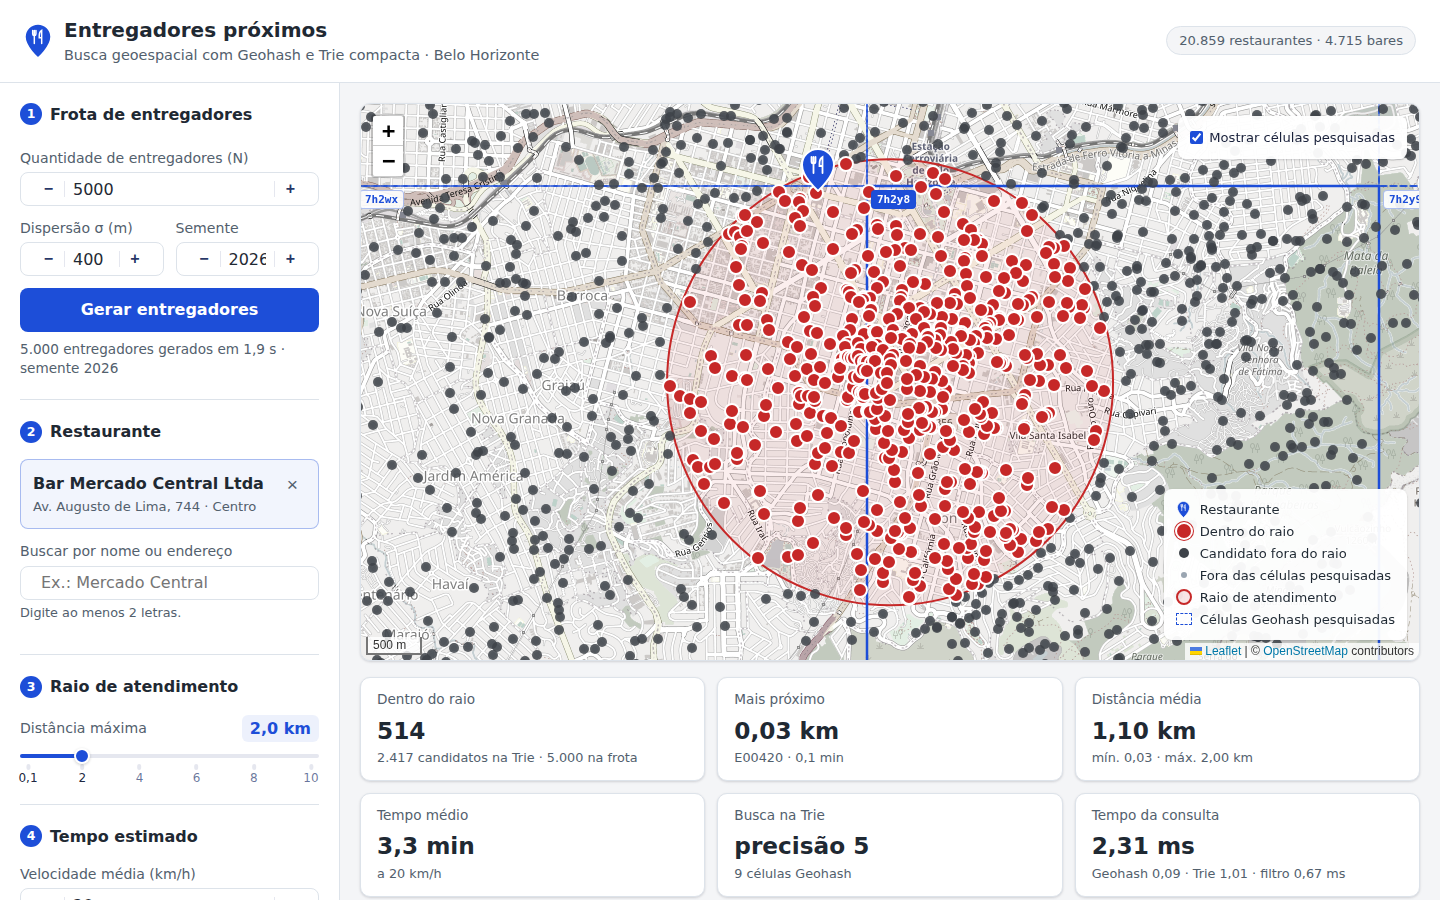
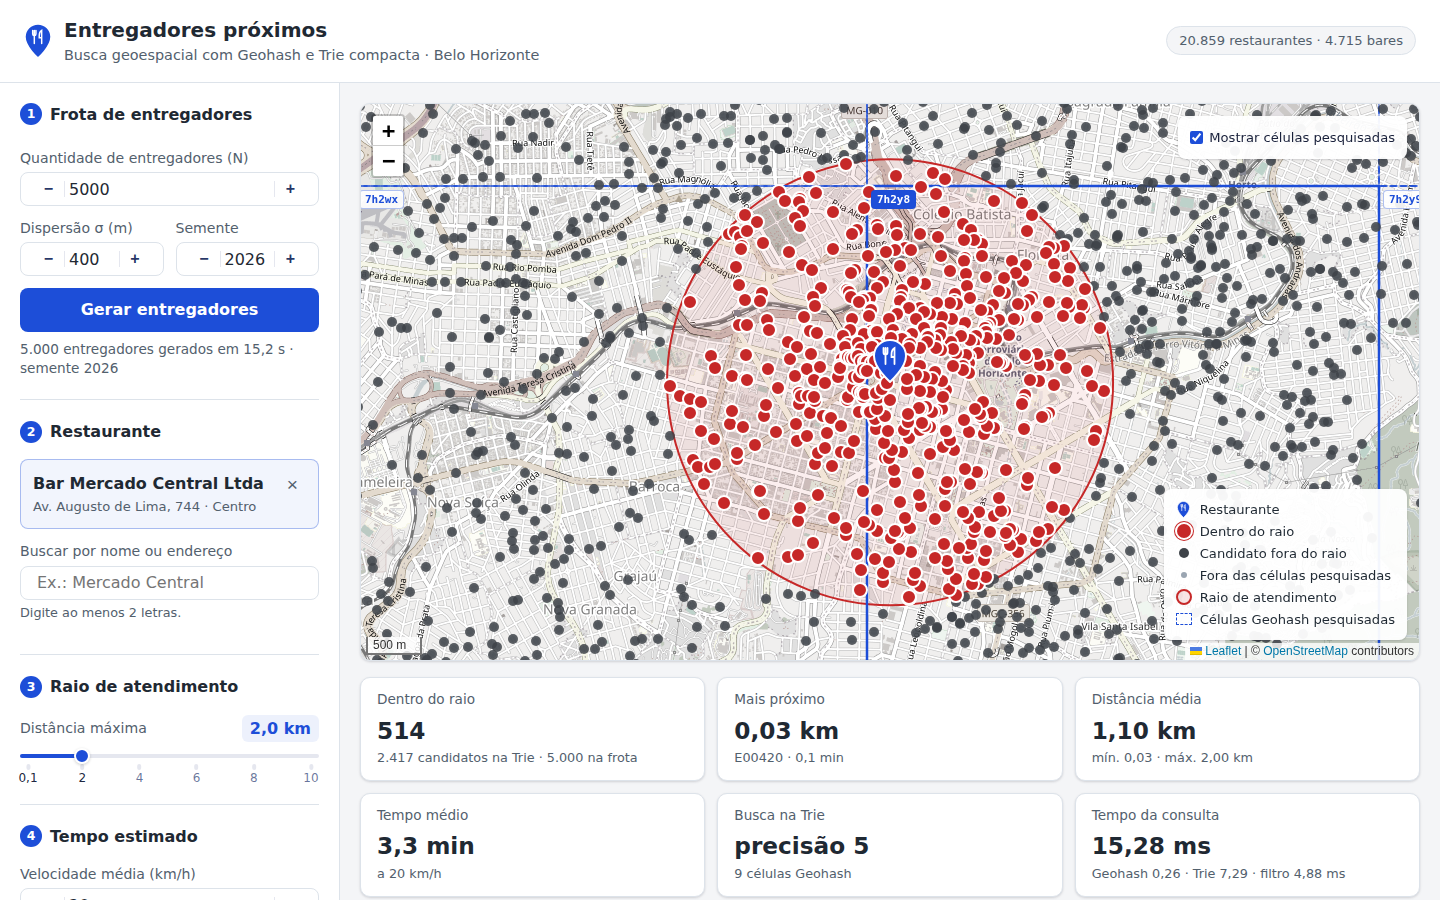
corrige posição do marcador do restaurante e revisa o relatório

diff --git a/app/assets/style.css b/app/assets/style.css
@@ -202,6 +202,11 @@ fieldset.panel-section {
   border-color: var(--danger);
 }
 
+.input .dash-input-element {
+  padding-left: var(--s1);
+  padding-right: var(--s1);
+}
+
 .field-hint {
   margin: var(--s1) 0 0;
   font-size: 0.8rem;

diff --git a/tests/test_road_network.py b/tests/test_road_network.py
@@ -3,6 +3,7 @@ import random
 import pytest
 
 from config import GRAPH_PATH
+from core.geometry import haversine_km
 
 pytestmark = [
     pytest.mark.graph,
@@ -25,10 +26,28 @@ def test_snapped_points_are_on_the_road(network):
     assert max(network.distance_to_nearest_edge_m(snapped)) < 1.0
 
 
-def test_point_in_the_lake_is_moved(network):
+def test_snap_is_idempotent(network):
+    rng = random.Random(7)
+    points = [(rng.gauss(-19.92, 0.03), rng.gauss(-43.94, 0.03)) for _ in range(300)]
+    once = network.snap(points)
+    twice = network.snap(once)
+    assert max(haversine_km(*a, *b) for a, b in zip(once, twice, strict=True)) < 0.001
+
+
+def test_snap_moves_point_by_its_distance_to_the_road(network):
+    rng = random.Random(9)
+    points = [(rng.gauss(-19.92, 0.03), rng.gauss(-43.94, 0.03)) for _ in range(300)]
+    snapped = network.snap(points)
+    expected = network.distance_to_nearest_edge_m(points)
+    for p, q, d in zip(points, snapped, expected, strict=True):
+        assert abs(haversine_km(*p, *q) * 1000 - d) < 1.0
+
+
+def test_point_in_the_lake_is_moved_to_the_shore(network):
     # meio da lagoa da Pampulha
-    lat, lon = network.snap([(-19.8510, -43.9790)])[0]
-    assert (lat, lon) != (-19.8510, -43.9790)
+    lake = (-19.8510, -43.9790)
+    lat, lon = network.snap([lake])[0]
+    assert haversine_km(*lake, lat, lon) > 0.1
 
 
 def test_generation_with_snap_is_deterministic(network):

diff --git a/app/callbacks.py b/app/callbacks.py
@@ -264,7 +264,6 @@ def register(app: Dash, catalog: RestaurantCatalog, network, state: FleetState) 
                 [html.Strong(r.display_name), html.Span(f"{r.address} · {display_case(r.neighborhood)}")],
                 id={"type": "suggestion", "id": r.id},
                 className="suggestion",
-                role="listitem",
             )
             for r in found
         ]
@@ -373,7 +372,7 @@ def register(app: Dash, catalog: RestaurantCatalog, network, state: FleetState) 
         viewport = no_update
         if ctx.triggered_id in ("selected-restaurant", "radius"):
             (south, west), (north, east) = bbox_around(restaurant.lat, restaurant.lon, radius_km * 1.15)
-            viewport = {"bounds": [[south, west], [north, east]], "transition": "flyToBounds"}
+            viewport = {"bounds": [[south, west], [north, east]], "transition": "fitBounds"}
         layers = restaurant_layers(restaurant, radius_km)
 
         if index is None:

diff --git a/app/layout.py b/app/layout.py
@@ -103,7 +103,7 @@ def _panel() -> html.Aside:
                 "restaurant-query",
                 hint="Digite ao menos 2 letras.",
             ),
-            html.Div(id="restaurant-suggestions", className="suggestions", role="list"),
+            html.Div(id="restaurant-suggestions", className="suggestions"),
         ],
         className="panel-section",
     )

diff --git a/docs/report.md b/docs/report.md
@@ -2,7 +2,7 @@
 
 **Trabalho Prático 1, DCC207 Algoritmos 2 (UFMG)**
 
-**Aluna:** Luana Ribeiro Palhares 
+**Aluna:** Luana Ribeiro Palhares
 
 ## 1. Introdução
 
@@ -71,8 +71,8 @@ isso foi adotado como fonte.
 As coordenadas da PBH estão em SIRGAS 2000 / UTM zona 23 Sul. O script
 `scripts/build_restaurants.py` filtra os quatro CNAEs e converte as coordenadas para latitude e
 longitude com a série inversa de Krüger para a projeção transversa de Mercator (Karney, 2011). A
-conversão foi validada contra a biblioteca `pyproj` em todos os pontos, com diferença máxima
-inferior a 1 µm. O `pyproj` não é dependência do projeto. O arquivo resultante,
+conversão foi conferida uma única vez contra a biblioteca `pyproj`, fora do repositório, em todos os
+20.859 pontos, com diferença máxima inferior a 1 µm. O `pyproj` não é dependência do projeto. O arquivo resultante,
 `data/restaurants.csv` (2,9 MB), é o único lido pelo sistema.
 
 | Categoria | CNAE | Estabelecimentos |
@@ -126,8 +126,9 @@ os casos em que a vizinha pertence a outra célula-pai: a vizinha leste de `7h2x
 `7h2zb`. A longitude dá a volta no antimeridiano e a latitude satura nos polos. Cada vizinha custa
 uma codificação, O(p).
 
-A codificação foi comparada com a biblioteca `pygeohash` em 100 mil pontos, sem divergências. Os
-vizinhos foram verificados geometricamente em mais de 10 mil células, incluindo todas as filhas
+A codificação também foi comparada com a biblioteca `pygeohash` em 100 mil pontos aleatórios, com
+precisões de 1 a 12, sem divergências. Essa comparação foi feita fora do repositório, já que o
+`pygeohash` não é dependência do projeto. Os vizinhos foram verificados geometricamente em mais de 10 mil células, incluindo todas as filhas
 de pais aleatórios: cada vizinha tem o mesmo tamanho da célula original e está encostada no lado
 correto.
 
@@ -146,7 +147,8 @@ class _Node:
 - **Rótulos nas arestas (compressão de caminho).** Cadeias de nós com um único filho são reduzidas
   a uma aresta. Com 10 mil entregadores, a árvore tem 12.591 nós, contra 16.963 em uma Trie comum
   (26% a menos). A redução se concentra nos níveis mais profundos, onde os ramos raramente se
-  dividem. A compressão também garante a coleta em O(k) (seção 5.3).
+  dividem. O ganho é modesto porque as chaves são curtas e densas: o rótulo médio tem 1,2
+  caractere (seção 10.2).
 - **Filhos em dicionário indexado pelo primeiro caractere.** Os rótulos dos filhos de um nó começam
   com caracteres distintos, então a escolha da aresta é O(1).
 - **Bucket em lista.** Vários entregadores podem compartilhar o mesmo geohash de 8 caracteres. Com
@@ -177,13 +179,17 @@ Sejam m o tamanho do prefixo e k o número de valores devolvidos.
 - **Descida:** cada caractere do prefixo é comparado no máximo uma vez, e a escolha do filho é
   O(1). O custo é O(m).
 - **Coleta:** sejam T a subárvore e L o número de nós terminais de T. Cada terminal contém pelo
-  menos um valor, logo L ≤ k. Pela invariante, toda folha de T é terminal, e todo nó interno não
-  terminal tem pelo menos dois filhos. Em uma árvore em que todo nó interno tem pelo menos dois
-  filhos, há menos nós internos do que folhas. Portanto |T| ≤ 2L − 1 ≤ 2k − 1, e a coleta custa
-  O(|T| + k) = O(k).
+  menos um valor, logo L ≤ k. Os nós de T se dividem em três grupos: folhas (F), nós com um único
+  filho (U) e nós com dois ou mais filhos (D). Pela invariante, toda folha e todo nó com um único
+  filho são terminais, então F + U ≤ L. Em qualquer árvore, o número de nós com dois ou mais
+  filhos é menor que o número de folhas, então D < F ≤ L. Portanto |T| = F + U + D < 2L ≤ 2k, e
+  a coleta custa O(|T| + k) = O(k).
 
-A busca custa O(m + k), como exigido. Sem a compressão, uma subárvore com poucos valores poderia
-conter longas cadeias de nós com um único filho, e a coleta deixaria de ser O(k).
+A busca custa O(m + k), como exigido. Para chaves de tamanho arbitrário, a compressão é essencial:
+sem ela, uma subárvore com poucos valores poderia conter longas cadeias de nós com um único filho.
+Neste trabalho, como todas as chaves têm exatamente 8 caracteres, uma Trie comum também teria
+coleta O(k), com no máximo (8 − m)·k nós na subárvore. A diferença seria apenas de constante, o que
+é coerente com a redução de 26% no número de nós.
 
 A consulta faz a busca nas 9 células. Células de mesma precisão são disjuntas, então nenhum
 entregador é devolvido duas vezes, e o custo total é O(9m + K) = O(m + K), em que K é o número
@@ -251,10 +257,16 @@ busca na Trie e filtro. Os tempos são exibidos na interface.
 
 ### 7.1 Distribuição baseada em demanda
 
-- **Centros:** os 4.715 bares da base.
+- **Centros:** os 4.715 bares da base (CNAEs 5611204 e 5611205). O enunciado associa a ociosidade
+  dos entregadores aos bares, e o cadastro da PBH permite separá-los de restaurantes e lanchonetes
+  pelo CNAE. Os demais 16.144 estabelecimentos continuam disponíveis como pontos de consulta.
 - **Distribuição equitativa:** cada centro recebe ⌊N/C⌋ entregadores, e os N mod C restantes são
   atribuídos a centros sorteados sem reposição. Quando N < C, são sorteados N centros, cada um com
-  um entregador. Nos dois casos, as quantidades por centro diferem em no máximo 1.
+  um entregador. Nos dois casos, as quantidades por centro diferem em no máximo 1. Com N próximo de
+  C ou menor, cada bar recebe no máximo um ou dois entregadores; a alta densidade ao redor dos
+  bares vem, então, da concentração dos próprios bares em certas regiões, e não de vários
+  entregadores sorteados em torno do mesmo centro. Com N bem maior que C (por exemplo, 20 mil),
+  cada bar passa a ter vários entregadores ao seu redor.
 - **Posição inicial:** dois deslocamentos independentes `random.gauss(0, σ)`, em metros, nas
   direções norte e leste, convertidos para graus por `Δφ = dy/M` e `Δλ = dx/(M·cos φ)`, com
   M = 111.195 m por grau. O valor padrão é σ = 400 m.
@@ -319,7 +331,7 @@ frota, (2) escolha do restaurante, (3) ajuste do raio e (4) velocidade média pa
 
 ## 9. Testes
 
-O projeto tem 89 testes automatizados (pytest), todos aprovados.
+O projeto tem 91 testes automatizados (pytest), todos aprovados.
 
 | Área | Verificações |
 |---|---|
@@ -343,16 +355,21 @@ e 6 aparecem nas Figuras 4, 3 e 1; a consulta 5 é o caso de borda da seção 6.
 | # | Restaurante | Raio | p | Candidatos | Aceitos | Mais próximo | Tempo (ms) |
 |---|---|---|---|---|---|---|---|
 | 1 | Dona Deja (Savassi) | 2 km | 5 | 2.417 | 359 | 0,08 km | 2,78 |
-| 2 | Bar Mercado Central (Centro) | 2 km | 5 | 2.417 | 514 | 0,03 km | 2,31 |
+| 2 | Bar Mercado Central (Centro) | 2 km | 5 | 2.417 | 514 | 0,03 km | 15,28 |
 | 3 | Casa Verde Club (Pampulha) | 2 km | 5 | 2.324 | 161 | 0,04 km | 1,71 |
 | 4 | Tatu Rei do Angu (Barreiro) | 2 km | 5 | 1.551 | 138 | 0,07 km | 1,16 |
 | 5 | DJ Lanches (Centro, borda de célula) | 2 km | 5 | 2.417 | 507 | 0,04 km | 2,01 |
 | 6 | Bar Mercado Central (Centro) | 0,5 km | 6 | 340 | 92 | 0,03 km | 0,53 |
 | 7 | Bar Mercado Central (Centro) | 5 km | 4 | 5.000 | 1.729 | 0,03 km | 83,40* |
 
-\* A soma das etapas dessa consulta foi de 3,6 ms; o restante corresponde a uma pausa do coletor de
-lixo do Python durante a montagem do resultado. No benchmark, que desativa o coletor durante as
-medições, a mediana da mesma configuração é 6,7 ms.
+\* A soma das etapas dessa consulta foi de 3,6 ms; o restante foi gasto na montagem do resultado,
+provavelmente em uma pausa do coletor de lixo do Python. No benchmark, que desativa o coletor
+durante as medições, a mediana da mesma configuração é 6,7 ms.
+
+Cada tempo da tabela é uma única medição feita na interface, e esses valores oscilam bastante entre
+execuções: repetindo a consulta 2, observei de 2 a 15 ms. A consulta divide o processador com os
+outros callbacks disparados pela mesma ação (como a atualização da lista de sugestões) e com o
+navegador. As medianas da seção 10.2 são a referência mais confiável.
 
 ### 10.2 Desempenho
 
@@ -418,8 +435,11 @@ melhoria natural é cobrir o círculo com mais células de precisão maior (por 
 células de precisão p+1 que intersectam a caixa do círculo), em vez de apenas as 8 vizinhas na
 precisão p.
 
-Todas as consultas do benchmark ficaram abaixo de 30 ms, mesmo com 20 mil entregadores, e a
-interface responde sem atraso perceptível.
+Todas as consultas do benchmark ficaram abaixo de 30 ms, mesmo com 20 mil entregadores. Na
+interface, porém, o tempo percebido inclui a montagem e o envio da resposta (pinos e tabela) e o
+desenho no navegador. Com 5 mil entregadores e raio de 2 km, a resposta tem cerca de 0,7 MB e é
+montada em cerca de 60 ms. No pior caso, com 20 mil entregadores e raio de 10 km, ela chega a
+12,6 MB e cerca de 2 s, porque a tabela lista todos os 14,8 mil aceitos.
 
 ## 11. Limitações
 
@@ -430,6 +450,8 @@ interface responde sem atraso perceptível.
 - **Rua mais próxima medida em graus:** a escolha da aresta pelo `osmnx` não aplica o fator cos φ
   (seção 7.2).
 - **Frota estática:** os entregadores não se movem. Cada geração produz uma frota nova.
+- **Tabela completa:** a tabela lista todos os entregadores aceitos, o que deixa a interface lenta
+  com frotas grandes e raios grandes (seção 10.3). Paginar a tabela resolveria.
 - **Usuário único:** a frota fica na memória do servidor e é compartilhada entre abas.
 
 ## 12. Reprodução
